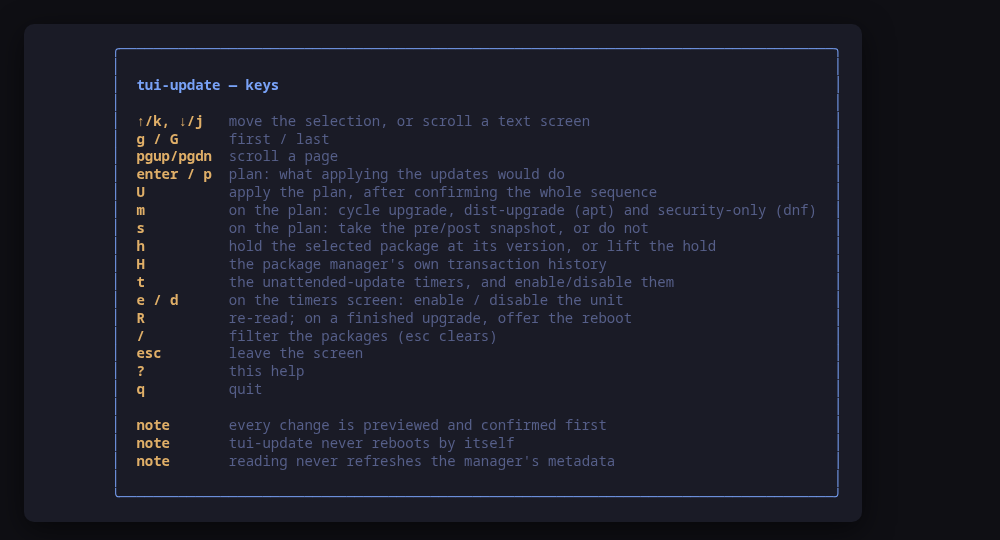
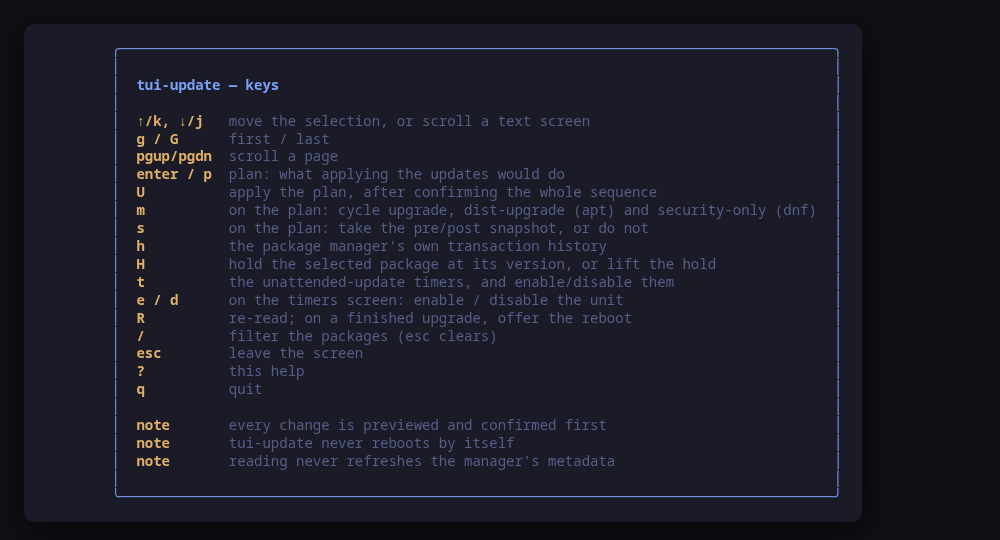
Keep h on history and put the hold toggle on H
The previous commit took h for the new hold action and pushed history to H.
That is backwards: h has been history since the tool shipped, and a key that
is already in someone's fingers is not free to reassign for a feature added
later. A rebinding like that costs every existing user something and buys the
new action nothing.

So the shipped binding stays where it is and the new one takes the shifted
half of the pair, which is the family's own convention for exactly this case:
h reads the history, H holds the selected package. Nothing else about the
feature changes.

Help screen, hint bar, tool.json, the README key table and every sentence in
the README that named the key follow, and the two screenshots carrying the key
legend were re-rendered from --demo. The history-screen test goes back to
pressing h, and the three hold tests now press H.

Claude-Session: https://claude.ai/code/session_01MCypLQF5AD8JD831Ea9S9q

Changed region(s): [[0.217, 0.4444, 0.713, 0.5037]]

diff --git a/cmd/tui-update/app_test.go b/cmd/tui-update/app_test.go
@@ -83,7 +83,7 @@ func TestWidthsNeverOverflow(t *testing.T) {
 	}{
 		{"pending", nil},
 		{"plan", []string{"p"}},
-		{"history", []string{"H"}},
+		{"history", []string{"h"}},
 		{"timers", []string{"t"}},
 		{"help", []string{"?"}},
 	}
@@ -599,16 +599,16 @@ func TestSnapshotToggleIsRefusedWithNowhereToSnapshot(t *testing.T) {
 	}
 }
 
-// TestHoldIsPreviewedAndToggles: h holds the selected package and lifts a hold
+// TestHoldIsPreviewedAndToggles: H holds the selected package and lifts a hold
 // it already carries, both behind the same confirm dialog as everything else.
 func TestHoldIsPreviewedAndToggles(t *testing.T) {
 	a, fake := newTestApp(t, 120, 30)
 
 	// The sample machine holds nginx, so the key on that row lifts it.
 	a.cursor = indexOf(t, a, "nginx")
-	key(a, "h")
+	key(a, "H")
 	if a.mode != modeConfirm {
-		t.Fatalf("h did not open a confirm dialog (mode %v)", a.mode)
+		t.Fatalf("H did not open a confirm dialog (mode %v)", a.mode)
 	}
 	if a.confirm.Command != "sudo -n dnf versionlock delete nginx" {
 		t.Errorf("the dialog previews %q", a.confirm.Command)
@@ -630,7 +630,7 @@ func TestHoldIsPreviewedAndToggles(t *testing.T) {
 	}
 	send(a, loadedMsg{model: model})
 	a.cursor = indexOf(t, a, "vim-minimal")
-	key(a, "h")
+	key(a, "H")
 	if a.confirm.Command != "sudo -n dnf versionlock add vim-minimal" {
 		t.Errorf("the dialog previews %q", a.confirm.Command)
 	}
@@ -652,7 +652,7 @@ func TestHoldIsRefusedWithoutTheVersionlockPlugin(t *testing.T) {
 	}
 	send(a, loadedMsg{model: model})
 
-	key(a, "h")
+	key(a, "H")
 	if a.mode == modeConfirm {
 		t.Fatalf("a hold was previewed on a machine that cannot hold anything")
 	}

diff --git a/cmd/tui-update/view.go b/cmd/tui-update/view.go
@@ -465,8 +465,8 @@ func (a *app) shortHelpKeys() []ui.KeyHint {
 	return []ui.KeyHint{
 		{Key: "enter", Desc: "plan"},
 		{Key: "U", Desc: "upgrade"},
-		{Key: "h", Desc: "hold"},
-		{Key: "H", Desc: "history"},
+		{Key: "h", Desc: "history"},
+		{Key: "H", Desc: "hold"},
 		{Key: "t", Desc: "timers"},
 		{Key: "/", Desc: "filter"},
 		{Key: "R", Desc: "re-read"},
@@ -531,9 +531,9 @@ func helpKeys() []ui.KeyHint {
 		{Key: "m", Desc: "on the plan: cycle upgrade, dist-upgrade (apt) and " +
 			"security-only (dnf)"},
 		{Key: "s", Desc: "on the plan: take the pre/post snapshot, or do not"},
-		{Key: "h", Desc: "hold the selected package at its version, or lift " +
+		{Key: "h", Desc: "the package manager's own transaction history"},
+		{Key: "H", Desc: "hold the selected package at its version, or lift " +
 			"the hold"},
-		{Key: "H", Desc: "the package manager's own transaction history"},
 		{Key: "t", Desc: "the unattended-update timers, and enable/disable them"},
 		{Key: "e / d", Desc: "on the timers screen: enable / disable the unit"},
 		{Key: "R", Desc: "re-read; on a finished upgrade, offer the reboot"},

diff --git a/cmd/tui-update/app.go b/cmd/tui-update/app.go
@@ -514,10 +514,10 @@ func (a *app) handlePendingKey(msg tea.KeyMsg) (tea.Model, tea.Cmd) {
 	case "U":
 		return a, a.openPlan(true)
 	case "h":
-		return a, a.confirmHold()
-	case "H":
 		a.mode, a.scroll, a.loading = modeHistory, 0, true
 		return a, a.loadHistory()
+	case "H":
+		return a, a.confirmHold()
 	case "t":
 		a.mode, a.timerCursor = modeTimers, 0
 	case "R", "ctrl+r":

diff --git a/internal/pkgmgr/fake.go b/internal/pkgmgr/fake.go
@@ -109,7 +109,7 @@ func (f *Fake) reset() {
 			Current: "1.27.4-1.fc42", New: "1.27.5-1.fc42",
 			Repo: "updates", Size: "1.6 MiB",
 			// Already held, so the sample machine shows both halves of the
-			// hold key: h lifts this one and places one on any other row.
+			// hold key: H lifts this one and places one on any other row.
 			Held: true,
 		},
 		{

diff --git a/README.md b/README.md
@@ -277,13 +277,13 @@ capability is split in two in the code: `SecurityMetadata` (apt: yes) and
 `SecurityUpgrade` (apt: no). On pacman there is neither.
 
 The honest workaround on apt is the manager's own: hold the packages you do not
-want moved, with `h`, and run the plain upgrade.
+want moved, with `H`, and run the plain upgrade.
 
 ## Holding a package back
 
 ![The pending list](docs/screenshots/tui-update-main.png)
 
-`h` on a package row holds it at its installed version, or lifts a hold it
+`H` on a package row holds it at its installed version, or lifts a hold it
 already carries. Held rows are marked `·held` and greyed out, because a package
 nothing is going to upgrade should not look like one that is.
 
@@ -303,7 +303,7 @@ Two honest caveats:
 - **dnf's versionlock is a plugin**, and a minimal install does not carry it.
   Without it, `dnf versionlock add` fails with `No such command: versionlock`,
   which tells a reader nothing. So the plugin is detected when the pending list
-  is read, and `h` refuses up front, naming the package to install —
+  is read, and `H` refuses up front, naming the package to install —
   `python3-dnf-plugin-versionlock`, or `dnf-plugins-extras-versionlock` on RHEL
   and its rebuilds. `tui-update --demo --demo-no-versionlock` drives that exact
   machine, so the refusal can be seen without breaking a real one.
@@ -311,11 +311,11 @@ Two honest caveats:
   lock excludes it from the available set. So on dnf a lock you placed will
   usually not be on the list any more — which is `dnf versionlock list`'s job to
   answer, and lifting it is a `dnf versionlock delete` on the command line. On
-  apt a held package stays on the upgradable list, so `h` toggles it both ways
+  apt a held package stays on the upgradable list, so `H` toggles it both ways
   from the screen.
 - **pacman holds packages in `/etc/pacman.conf`** (`IgnorePkg`), which is a file
   to edit rather than a command to run. This tool does not edit configuration
-  files, so `h` says so there rather than inventing a command.
+  files, so `H` says so there rather than inventing a command.
 
 ## Every change is previewed
 
@@ -484,8 +484,8 @@ the reboot is this tool's user's decision.
 | `U` | Apply it, after confirming the whole sequence |
 | `m` | On the plan: cycle `upgrade`, `dist-upgrade` (apt) and `security` (dnf) |
 | `s` | On the plan: take the pre/post snapshot, or do not |
-| `h` | Hold the selected package at its version, or lift the hold |
-| `H` | The package manager's own transaction history |
+| `h` | The package manager's own transaction history |
+| `H` | Hold the selected package at its version, or lift the hold |
 | `t` | The unattended-update timers |
 | `e` / `d` | On the timers screen: enable / disable the unit |
 | `R` | Re-read; on a finished upgrade, offer the reboot |
@@ -527,7 +527,7 @@ the reboot is this tool's user's decision.
 
 - **No per-package upgrade.** The list is not a selection: it is what the
   manager would do, and the tool applies that whole or not at all. The way to
-  leave a package behind is to hold it, with `h`, and then upgrade.
+  leave a package behind is to hold it, with `H`, and then upgrade.
 - **No security-only upgrade on apt or pacman.** apt has no command that
   applies only the security updates, and the approximations are either
   dishonest or capable of rebooting the machine —
